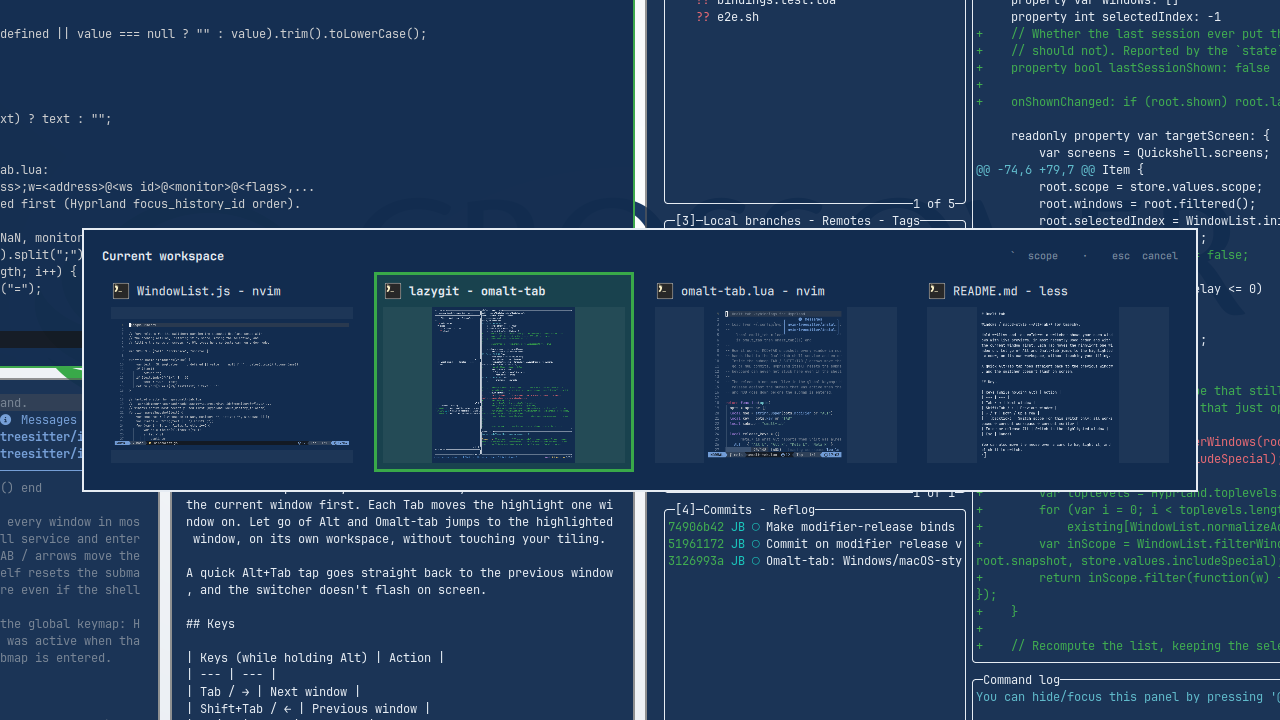
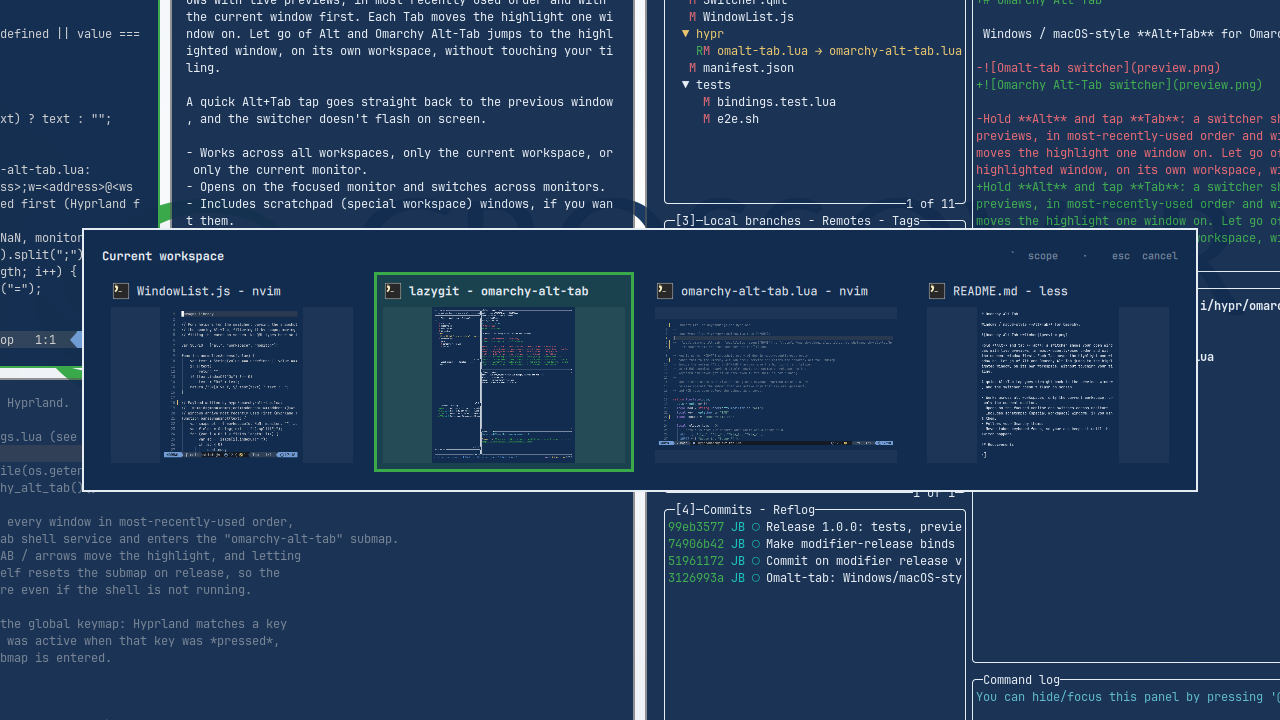
Rename to Omarchy Alt-Tab
The names Omalt-tab (Codesmith28/omalt-tab) and OmaSwitch are already
taken by other Alt+Tab plugins. New plugin id io.github.jburchel.omarchy-alt-tab;
events, submap, IPC target and layer namespaces are now omarchy-alt-tab,
and the bindings file is hypr/omarchy-alt-tab.lua.

diff --git a/Switcher.qml b/Switcher.qml
@@ -8,8 +8,8 @@ import qs.Ui // qmllint disable import
 import "SettingsModel.js" as SettingsModel
 import "WindowList.js" as WindowList
 
-// Omalt-tab service. Hyprland drives it with custom events from
-// hypr/omalt-tab.lua: "open;<next|prev>;<snapshot>", then next / prev / up /
+// Omarchy Alt-Tab service. Hyprland drives it with custom events from
+// hypr/omarchy-alt-tab.lua: "open;<next|prev>;<snapshot>", then next / prev / up /
 // down / scope while the modifier is held, and commit or cancel at the end.
 // The overlay never takes keyboard focus, so the focused app is untouched
 // until the switch actually happens.
@@ -18,7 +18,7 @@ Item {
 
     property var shell: null
     property var manifest: null
-    readonly property string pluginId: String((root.manifest && root.manifest.id) || "io.github.jburchel.omalt-tab")
+    readonly property string pluginId: String((root.manifest && root.manifest.id) || "io.github.jburchel.omarchy-alt-tab")
 
     SettingsStore {
         id: store
@@ -224,13 +224,14 @@ Item {
             if (!event || event.name !== "custom")
                 return;
             var data = String(event.data || "");
-            if (data.indexOf("omalt-tab:") === 0)
-                root.handle(data.slice(10));
+            var prefix = "omarchy-alt-tab:";
+            if (data.indexOf(prefix) === 0)
+                root.handle(data.slice(prefix.length));
         }
     }
 
     IpcHandler {
-        target: "omalt-tab"
+        target: "omarchy-alt-tab"
         function settings(): string {
             return root.shell && root.shell.toggle(root.pluginId, "{}") ? "ok" : "unavailable";
         }
@@ -282,7 +283,7 @@ Item {
         screen: root.targetScreen
         color: "transparent"
         exclusionMode: ExclusionMode.Ignore
-        WlrLayershell.namespace: "omalt-tab"
+        WlrLayershell.namespace: "omarchy-alt-tab"
         WlrLayershell.layer: WlrLayer.Overlay
         WlrLayershell.keyboardFocus: WlrKeyboardFocus.None
         implicitWidth: frame.width

diff --git a/Settings.qml b/Settings.qml
@@ -5,7 +5,7 @@ import qs.Commons // qmllint disable import
 import qs.Ui // qmllint disable import
 import "SettingsModel.js" as SettingsModel
 
-// Omalt-tab settings overlay: `omarchy-shell omalt-tab settings`.
+// Omarchy Alt-Tab settings overlay: `omarchy-shell omarchy-alt-tab settings`.
 // Up/Down pick a row, Left/Right change it, Space/Enter flip switches,
 // Escape closes. Every change is saved immediately.
 Item {
@@ -13,7 +13,7 @@ Item {
 
     property var shell: null
     property var manifest: null
-    readonly property string pluginId: String((root.manifest && root.manifest.id) || "io.github.jburchel.omalt-tab")
+    readonly property string pluginId: String((root.manifest && root.manifest.id) || "io.github.jburchel.omarchy-alt-tab")
 
     property bool opened: false
     property int cursor: 0
@@ -85,7 +85,7 @@ Item {
         anchors { top: true; bottom: true; left: true; right: true }
         color: "transparent"
         exclusionMode: ExclusionMode.Ignore
-        WlrLayershell.namespace: "omalt-tab-settings"
+        WlrLayershell.namespace: "omarchy-alt-tab-settings"
         WlrLayershell.layer: WlrLayer.Overlay
         WlrLayershell.keyboardFocus: WlrKeyboardFocus.Exclusive
 
@@ -143,7 +143,7 @@ Item {
                 spacing: Style.spacing.md
 
                 Text {
-                    text: "Omalt-tab"
+                    text: "Omarchy Alt-Tab"
                     color: Color.menu.text
                     font.family: Style.font.menuFamily
                     font.pixelSize: Style.font.heading

diff --git a/WindowList.js b/WindowList.js
@@ -15,7 +15,7 @@ function normalizeAddress(value) {
     return /^0x[0-9a-f]+$/.test(text) ? text : "";
 }
 
-// Payload written by hypr/omalt-tab.lua:
+// Payload written by hypr/omarchy-alt-tab.lua:
 //   ws=<id>;mon=<name>;act=<address>;w=<address>@<ws id>@<monitor>@<flags>,...
 // Windows arrive most-recently-used first (Hyprland focus_history_id order).
 function parseSnapshot(text) {

diff --git a/README.md b/README.md
@@ -1,10 +1,10 @@
-# Omalt-tab
+# Omarchy Alt-Tab
 
 Windows / macOS-style **Alt+Tab** for Omarchy.
 
-![Omalt-tab switcher](preview.png)
+![Omarchy Alt-Tab switcher](preview.png)
 
-Hold **Alt** and tap **Tab**: a switcher shows your open windows with live previews, in most-recently-used order and with the current window first. Each Tab moves the highlight one window on. Let go of Alt and Omalt-tab jumps to the highlighted window, on its own workspace, without touching your tiling.
+Hold **Alt** and tap **Tab**: a switcher shows your open windows with live previews, in most-recently-used order and with the current window first. Each Tab moves the highlight one window on. Let go of Alt and Omarchy Alt-Tab jumps to the highlighted window, on its own workspace, without touching your tiling.
 
 A quick Alt+Tab tap goes straight back to the previous window, and the switcher doesn't flash on screen.
 
@@ -17,27 +17,27 @@ A quick Alt+Tab tap goes straight back to the previous window, and the switcher 
 ## Requirements
 
 - Omarchy 4 (Quattro) with the native shell plugin system and the Lua Hyprland config
-- Nothing else. Omalt-tab adds no packages, services or daemons.
+- Nothing else. Omarchy Alt-Tab adds no packages, services or daemons.
 
 ## Install
 
 ```sh
-omarchy plugin add https://github.com/jburchel/omalt-tab.git --enable
+omarchy plugin add https://github.com/jburchel/omarchy-alt-tab.git --enable
 ```
 
-Omalt-tab doesn't change your keybindings by itself. Add this to `~/.config/hypr/bindings.lua`:
+Omarchy Alt-Tab doesn't change your keybindings by itself. Add this to `~/.config/hypr/bindings.lua`:
 
 ```lua
--- Omalt-tab window switcher. Replaces Omarchy's default ALT+TAB / ALT+SHIFT+TAB.
-local omalt_tab = loadfile(os.getenv("HOME") .. "/.config/omarchy/plugins/io.github.jburchel.omalt-tab/hypr/omalt-tab.lua")
-if omalt_tab then omalt_tab()() end
+-- Omarchy Alt-Tab window switcher. Replaces Omarchy's default ALT+TAB / ALT+SHIFT+TAB.
+local omarchy_alt_tab = loadfile(os.getenv("HOME") .. "/.config/omarchy/plugins/io.github.jburchel.omarchy-alt-tab/hypr/omarchy-alt-tab.lua")
+if omarchy_alt_tab then omarchy_alt_tab()() end
 ```
 
 Run `hyprctl reload`, then check that `hyprctl configerrors` prints nothing.
 
 The block does nothing if the plugin is removed, and Omarchy's defaults come back.
 
-To use another modifier, pass options, e.g. `omalt_tab()({ modifier = "SUPER" })`. The modifier can be `ALT`, `SUPER` or `CTRL`.
+To use another modifier, pass options, e.g. `omarchy_alt_tab()({ modifier = "SUPER" })`. The modifier can be `ALT`, `SUPER` or `CTRL`.
 
 ## Keys
 
@@ -55,7 +55,7 @@ You can also move the mouse over a card to highlight it, and click it to switch.
 ## Settings
 
 ```sh
-omarchy-shell omalt-tab settings
+omarchy-shell omarchy-alt-tab settings
 ```
 
 This opens a settings panel you can use with the keyboard or mouse. Changes apply straight away.
@@ -71,13 +71,13 @@ This opens a settings panel you can use with the keyboard or mouse. Changes appl
 Every setting can also be set from scripts:
 
 ```sh
-omarchy-shell omalt-tab scope workspace      # all | workspace | monitor
-omarchy-shell omalt-tab showDelay 0          # 0-1000 ms
-omarchy-shell omalt-tab previews off         # on | off
-omarchy-shell omalt-tab workspaceBadges off  # on | off
-omarchy-shell omalt-tab includeSpecial off   # on | off
-omarchy-shell omalt-tab status               # current settings
-omarchy-shell omalt-tab state                # live switcher state
+omarchy-shell omarchy-alt-tab scope workspace      # all | workspace | monitor
+omarchy-shell omarchy-alt-tab showDelay 0          # 0-1000 ms
+omarchy-shell omarchy-alt-tab previews off         # on | off
+omarchy-shell omarchy-alt-tab workspaceBadges off  # on | off
+omarchy-shell omarchy-alt-tab includeSpecial off   # on | off
+omarchy-shell omarchy-alt-tab status               # current settings
+omarchy-shell omarchy-alt-tab state                # live switcher state
 ```
 
 Settings are stored in the plugin's entry in `~/.config/omarchy/shell.json`.
@@ -85,24 +85,24 @@ Settings are stored in the plugin's entry in `~/.config/omarchy/shell.json`.
 ## Update
 
 ```sh
-omarchy plugin update io.github.jburchel.omalt-tab
+omarchy plugin update io.github.jburchel.omarchy-alt-tab
 ```
 
 ## Remove
 
-Delete the Omalt-tab block from `~/.config/hypr/bindings.lua`, then:
+Delete the Omarchy Alt-Tab block from `~/.config/hypr/bindings.lua`, then:
 
 ```sh
-omarchy plugin remove io.github.jburchel.omalt-tab --yes
+omarchy plugin remove io.github.jburchel.omarchy-alt-tab --yes
 hyprctl reload
 ```
 
 ## How it works
 
-- **Opening:** `hypr/omalt-tab.lua` binds Alt+Tab. On the first press it takes a snapshot of every window, sorted by Hyprland's `focus_history_id`, and sends it to the shell as a custom event. It then enters an `omalt-tab` submap, where Tab, arrows and backtick send more events.
+- **Opening:** `hypr/omarchy-alt-tab.lua` binds Alt+Tab. On the first press it takes a snapshot of every window, sorted by Hyprland's `focus_history_id`, and sends it to the shell as a custom event. It then enters an `omarchy-alt-tab` submap, where Tab, arrows and backtick send more events.
 - **Releasing Alt:** releasing Alt sends `commit` and resets the submap. The release binds sit in the global keymap, because Hyprland matches a key release against the submap that was active when the key was pressed. They're also `transparent`, because Hyprland shadows binds on keys that are still held once Alt+Tab has fired.
 - **Shell side:** `Switcher.qml` is an Omarchy shell service that draws the overlay on the focused monitor. Cards show live `ScreencopyView` previews.
-- **Switching:** Omalt-tab calls `hl.dsp.focus({ window = "address:…" })`. Hyprland moves to the window's workspace and leaves the layout alone.
+- **Switching:** Omarchy Alt-Tab calls `hl.dsp.focus({ window = "address:…" })`. Hyprland moves to the window's workspace and leaves the layout alone.
 
 ## Performance
 
@@ -110,7 +110,7 @@ Live previews use roughly a third of one CPU core, and only while the switcher i
 
 ## Security
 
-- Omalt-tab runs unsandboxed inside Omarchy Shell with your user's permissions.
+- Omarchy Alt-Tab runs unsandboxed inside Omarchy Shell with your user's permissions.
 - It reads window, workspace and monitor state from Hyprland and focuses the window you choose.
 - Its only writes are to its own entry in `~/.config/omarchy/shell.json`.
 - No network, no privilege escalation, no package installs, no install hooks, and no automatic keybinding changes.
